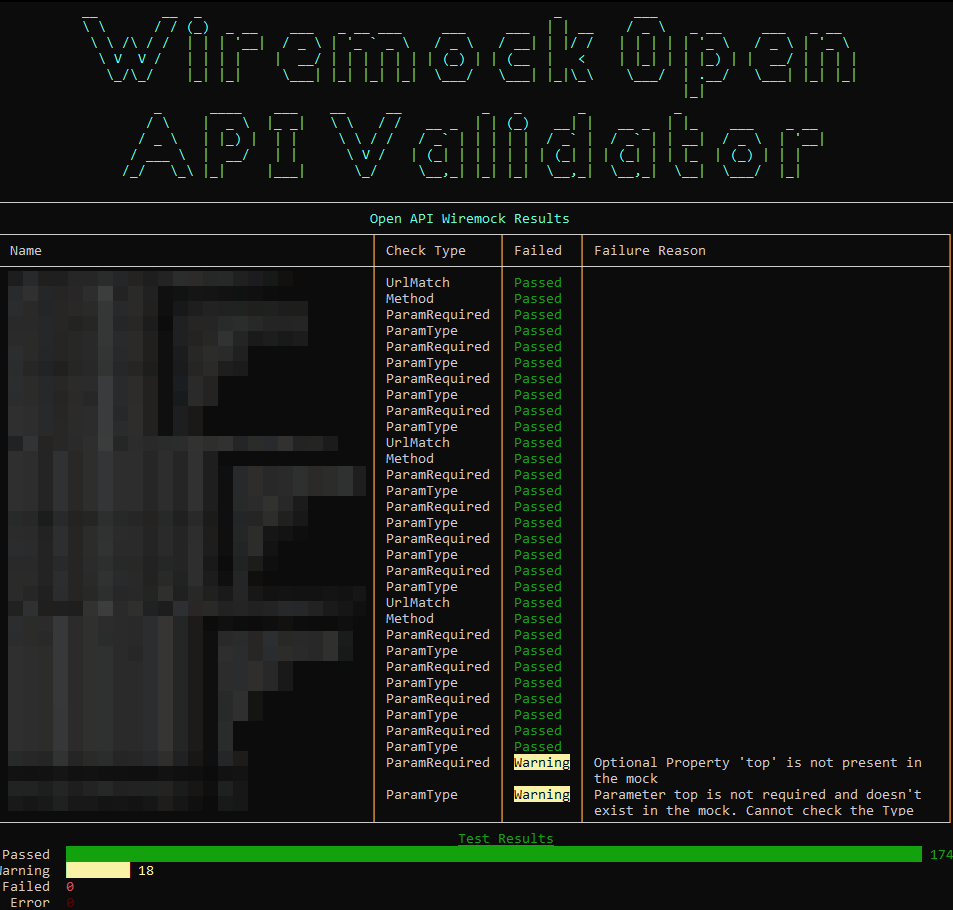
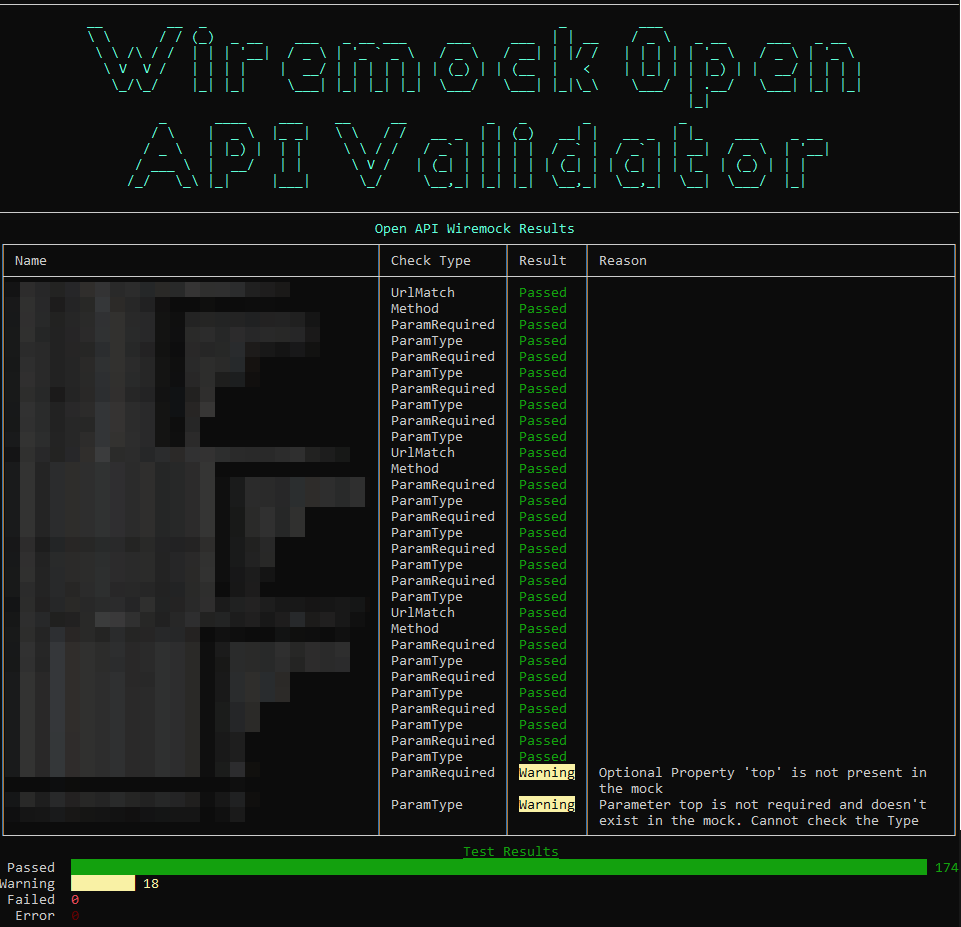
fix: fixed the title #1

diff --git a/src/Wiremock.OpenAPIValidator/Program.cs b/src/Wiremock.OpenAPIValidator/Program.cs
@@ -66,8 +66,8 @@ namespace Wiremock.OpenAPIValidator
             };
             table.AddColumn("Name");
             table.AddColumn("Check Type");
-            table.AddColumn("Failed");
-            table.AddColumn("Failure Reason");
+            table.AddColumn("Result");
+            table.AddColumn("Reason");
 
             foreach (var validation in validationResult.Results)
             {
